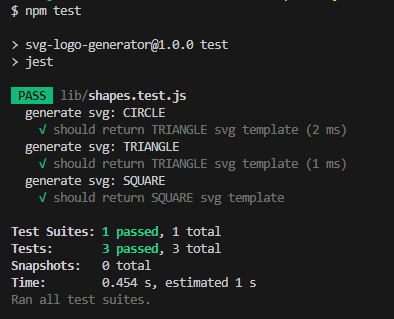
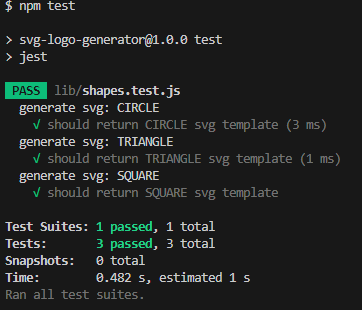
finsihed README

diff --git a/index.js b/index.js
@@ -1,7 +1,3 @@
-// init function runs prompts and writes file
-// prompts function that uses an array of questions
-// shapes.js will include templates for each shape
-// render function that takes input from promts and adds it to svg format
 
 const fs = require('fs');
 const inq = require("inquirer");
@@ -43,7 +39,7 @@ function init() {
     inq
         .prompt(questions)
         .then((data) => {
-            fs.writeFileSync(`./examples/${data.text}.svg`, generateSvg(data));
+            fs.writeFileSync(`./results/${data.text}.svg`, generateSvg(data));
         })
         .then(() => console.log('Your SVG has been generated!'))
 }

diff --git a/lib/shapes.test.js b/lib/shapes.test.js
@@ -22,7 +22,7 @@ const squareObject = {
 }
 
 describe('generate svg: CIRCLE', () => {
-  it('should return TRIANGLE svg template', () => {
+  it('should return CIRCLE svg template', () => {
     expect(generateSvg(circleObject)).toEqual(
       `<svg version="1.1" width="300" height="200" xmlns="http://www.w3.org/2000/svg">
 

diff --git a/README.md b/README.md
@@ -1,11 +1,53 @@
-# svg-logo-generator
+# SVG Logo Generator
+
+## Table Of Contents
+* [Description](#description)
+* [Installation](#installation)
+* [Usage](#usage)
+* [Demo](#demo)
+* [Test](#test)
+* [Tools Used](#tools-used)
+* [Credits](#credits)
+* [Licnese](#license)
 
 
+## Description
+This application allows you to quickly and easily generate a high quality 300x200 pixel logo for your projects within seconds. \
+Answer 4 simple questions about your design and it will be generated for you so that you don't need to hire a graphic designer!
 
+## Installation
+1. Download the code files
+2. Install node.js [here](https://nodejs.org/en/)
+3. Open terminal and navigate to folder containing code files
+4. Run the following code to install dependancies: `npm i`
 
+## Usage
+HOW TO USE: \
+**Assuming your terminal location is the same from [installation](#installation) instructions** 
+1. Launch program by typing the following code: `node index.js`
+2. You will be prompted a series of questions in the terminal.
+3. Submit each answer by pressing 'Enter'
+4. Once you are done, a prompt will appear that says `Your SVG has been generated!`
+5. Navigate to the folder titled 'results'
+6. Your newly generated SVG will be located within the 'results' folder and will be titled according to the text you inputed in the prompt (Ex: abc.svg)
 
+## Demo
+Click [here](https://drive.google.com/file/d/1M_ir0_WIBRlHDcQBfBI2VyEzxuy44OJ8/view?usp=sharing) for a video walkthrough.
 
+## Test
+[Jest.js](https://jestjs.io/) is included in the 'package.json' and will be installed if you have already followed the [installation](#installation) instructions. \
+If you would like to run the current tests, type `npm test` into your terminal. \
+<br>
+The following is a screenshot of the current 3 tests passing:
 
+![Passing all three current jest tests](./images/jest-test.png)
+
+Click [here](https://drive.google.com/file/d/18cUoSNEMzQlNt-H1d-GDOxVfjJusR0e4/view?usp=sharing) for a video of tests passing.
+
+## Tools Used
+- [Node.js](https://nodejs.org/en/)
+- [Inquirer](https://www.npmjs.com/package/inquirer)
+- [Jest.js](https://jestjs.io/)
 
 ## Credits 
 
@@ -15,3 +57,7 @@
 **Stack Overflow** \
 [Creating an equilateral triangle using svg in html](https://stackoverflow.com/questions/54955165/create-a-equilateral-triangle-using-svg-in-html-with-base-and-height-100px) \
 [Validating answers with inquirer](https://stackoverflow.com/questions/57321266/how-to-test-inquirer-validation)
+
+## License
+
+[![License: MIT](https://img.shields.io/badge/License-MIT-yellow.svg)](https://opensource.org/licenses/MIT)
